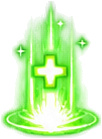
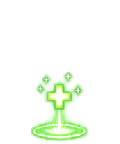
Animate derived healing VFX through art pipeline

diff --git a/tests/unit/art-runtime.test.ts b/tests/unit/art-runtime.test.ts
@@ -23,6 +23,14 @@ function pngSize(file: string): [number, number] {
 const report: Record<string, unknown> = {};
 
 describe('runtime art integration audit', () => {
+  it('regen is an actual transparent, fixed-canvas temporal cue', () => {
+    const cue = registry.vfx.regen;
+    expect(cue.note).toContain('temporal_growth');
+    expect(cue.frames.length).toBe(5);
+    expect(new Set(cue.frames.map((f) => `${f.w}x${f.h}`))).toEqual(new Set(['120x144']));
+    expect(new Set(cue.frames.map((f) => readFileSync(png(f.path)).toString('base64'))).size).toBe(5);
+    for (const f of cue.frames) expect(readFileSync(png(f.path))[25]).toBe(6);
+  });
   it('every registry frame exists on disk with the recorded size and visible pixels', () => {
     let frames = 0;
     const bad: string[] = [];

diff --git a/tools/art_vfx.py b/tools/art_vfx.py
@@ -88,6 +88,21 @@ add('crescent-purple', 'slash', [('ML', 95), ('ML', 96), ('ML', 99), ('ML', 119)
 def build_vfx(reg, log):
     for id_, spec in VFX.items():
         frames = []
+        if id_ == 'regen':
+            # Animate the installed healing glyph itself instead of presenting
+            # unrelated source-sheet variants as motion. Keep a fixed pivot.
+            source = grab('MC', 60).convert('RGBA')
+            canvas = (120, 144)
+            for n, (scale, opacity) in enumerate(((0.55, 120), (0.7, 190), (0.85, 240), (1, 255), (1.08, 145), (1.15, 0))):
+                im = Image.new('RGBA', canvas)
+                glyph = source.resize((round(source.width * scale), round(source.height * scale)), Image.Resampling.NEAREST)
+                glyph.putalpha(glyph.getchannel('A').point(lambda a: a * opacity // 255))
+                im.alpha_composite(glyph, ((canvas[0] - glyph.width) // 2, canvas[1] - glyph.height - 2))
+                if opacity:
+                    frames.append(save_frame(im, f'vfx/{id_}/{n}.png', 'derived', 'right', 'healing glyph MC#60; scaled/faded temporal frame', trim=False))
+            reg['vfx'][id_] = dict(id=id_, frames=frames, fps=14, loop=False, family='status', quality='derived', note='temporal_growth: derived from existing healing glyph')
+            log(f'[vfx] {id_}: {len(frames)} derived temporal frames')
+            continue
         for n, (k, i) in enumerate(spec['picks']):
             im = grab(k, i)
             if spec['fx']:

diff --git a/README.md b/README.md
@@ -19,6 +19,11 @@ Private, offline, fan-made JRPG: React 19 + TypeScript (strict) + Phaser 3 + Vit
 | `python tools/package_release.py` | build the release ZIPs in `release/` |
 
 ## Layout
+
 `src/data` content (heroes, 84 skills, enemies, 29 stages, story beats, cutscenes, 12 maps, quests) · `src/engine/combat` deterministic battle engine, director, policy · `src/engine/world` collision, world simulation, navigator · `src/engine/scenes` Phaser scenes · `src/components` React UI · `src/systems` state, progression, quests, story runtime, save, validation, input · `art/source` original art bundle (read-only) · `public/assets` generated runtime art.
+
+### Healing effect art workflow
+
+`python tools/build_art.py --only vfx` now rebuilds `regen` as five transparent, fixed-pivot temporal frames derived from the existing healing glyph in `art/source`. This cue is labelled `derived` in the registry, not artist-approved character art. It replaces the prior unrelated-variant pulse while keeping the runtime `regen` ID. Run `npx vitest run tests/unit/art-runtime.test.ts` and `npm run build` after regeneration. The existing Pillow/NumPy art environment is used; no new dependency was installed. The local `art/source` bundle is needed to rebuild it. Other provisional character art remains identified in `docs/KNOWN_LIMITATIONS.md`.
 
 Read `docs/FINAL_ACCEPTANCE_MATRIX.md` and `docs/KNOWN_LIMITATIONS.md` before relying on anything: art is provisional, nothing has human sign-off, and several verification gates are marked BLOCKED or NOT RUN.
